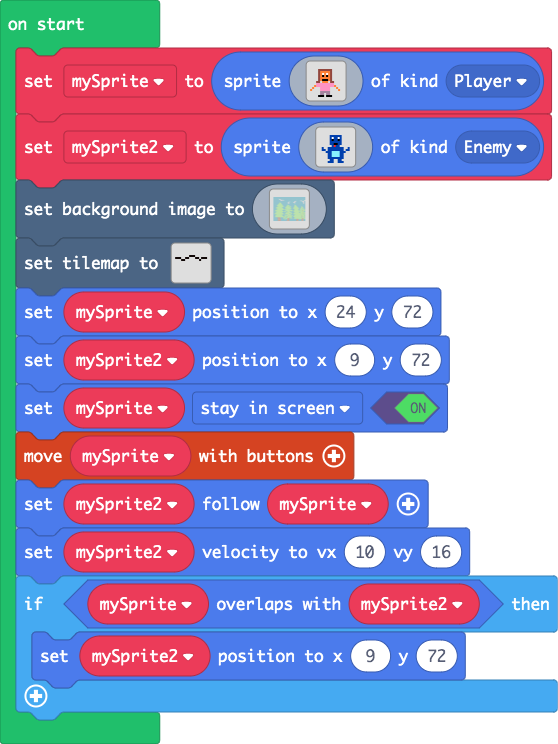
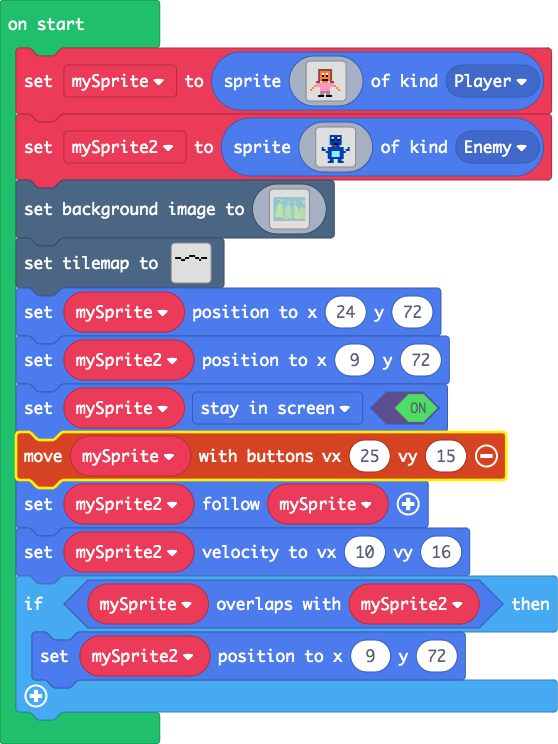
Update main.blocks, main.ts

diff --git a/main.ts b/main.ts
@@ -203,7 +203,7 @@ tiles.setTilemap(tiles.createTilemap(
 mySprite.setPosition(24, 72)
 mySprite2.setPosition(9, 72)
 mySprite.setFlag(SpriteFlag.StayInScreen, true)
-controller.moveSprite(mySprite)
+controller.moveSprite(mySprite, 25, 15)
 mySprite2.follow(mySprite)
 mySprite2.setVelocity(10, 16)
 if (mySprite.overlapsWith(mySprite2)) {
